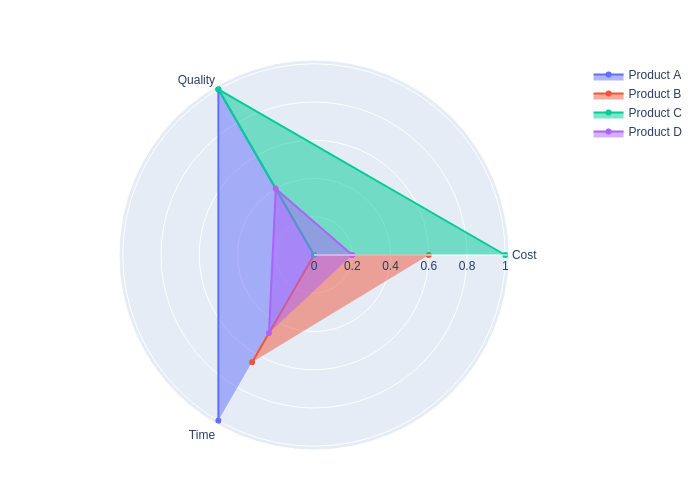
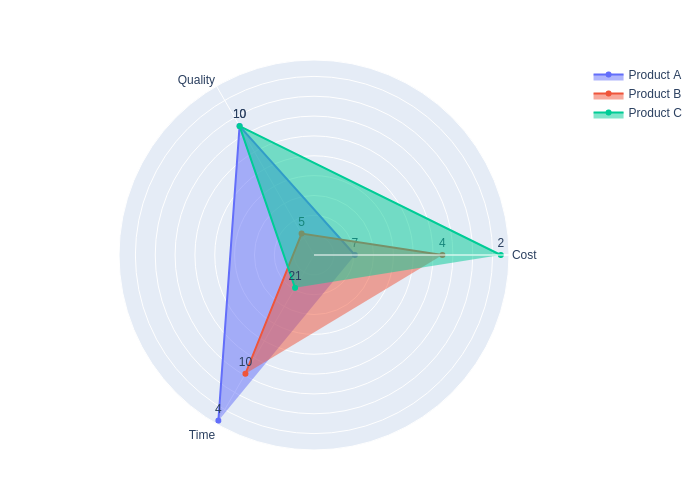
change: improve radar chart visualization
Normalize frontier inside function and shows absolute value for each solution in each objective

Changed region(s): [[0.3, 0.18, 0.72, 0.84], [0.84, 0.24, 0.99, 0.3]]

diff --git a/README.md b/README.md
@@ -201,20 +201,24 @@ To further explore the plotting capabilities, you can check the documentation of
 using JuMENTO
 
 frontier_set = [
-    7 4 2 6;
-    10 5 10 7;
-    4 10 21 13
+    7 4 2;
+    10 5 10;
+    4 10 21
 ]
-frontier_normalized = normalize_frontier(frontier_set, [:min, :max, :min])
-name_set = ["Product A", "Product B", "Product C", "Product D"]
 
-cats = ["Cost", "Quality", "Time"]
-fig = MultiPlots.radar(frontier_normalized, categories=cats, name_set=name_set)
+name_set = ["Product A", "Product B", "Product C"] # Optional, default is "Solution 1", "Solution 2", ...
+cats = ["Cost", "Quality", "Time"] # Optional, default is "Objective 1", "Objective 2", ...
+sens= [:min, :max, :min] # Optional, default is `:max` for all objectives
+eps=0.2 # Optional, default is 0.2. This value is used to expand slightly the normalization range to improve visualization
+
+fig = MultiPlots.radar(frontier_set, sense_set = sens, categories=cats, name_set=name_set, eps=eps)
 ```
 
 For this frontier, the figure would look like this:
 
 ![Radar Chart](images/radar_chart.png)
+
+This visualization enables quantitative evaluation of product performance profiles. For instance, Product C occupies a dominant position regarding Quality and Cost; however, it exhibits significantly higher latency (Time), representing a clear trade-off in the objective space.
 
 #### Parallel Coordinate Plots
 
